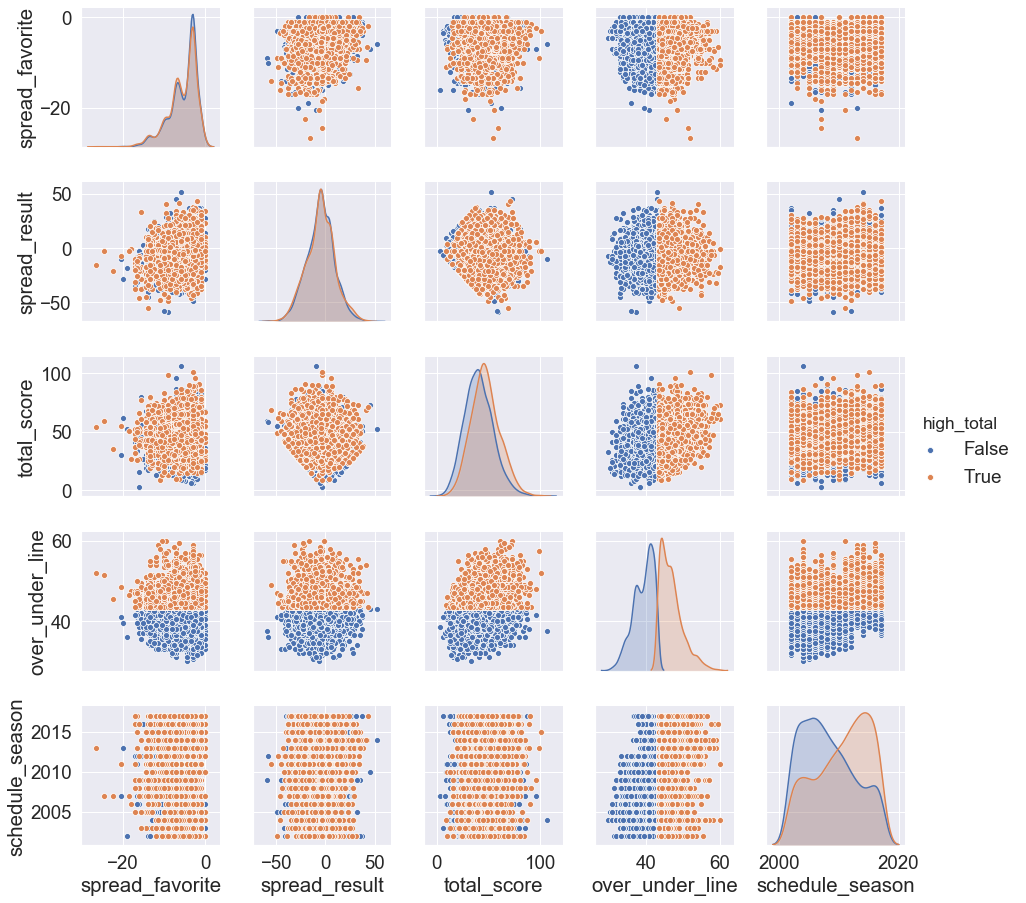
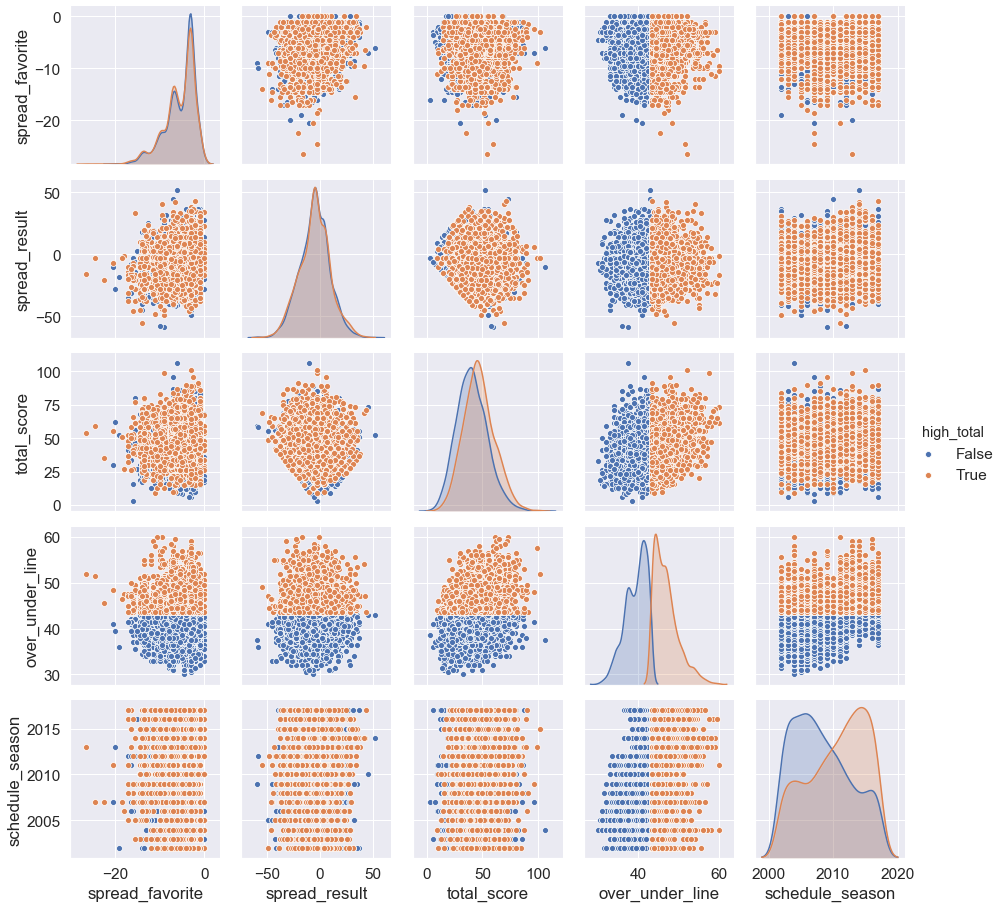
update

diff --git a/spread_analyis.py b/spread_analyis.py
@@ -27,7 +27,7 @@ df = df[df.over_under_line.notna()][['spread_favorite', 'spread_result', 'total_
 
 df = df[df.schedule_season > 2001]
 df['high_total'] = df.over_under_line > 43
-sns.set(font_scale= 1.7)
+sns.set(font_scale= 1.4)
 sns.pairplot(df, hue = 'high_total')
 
 
